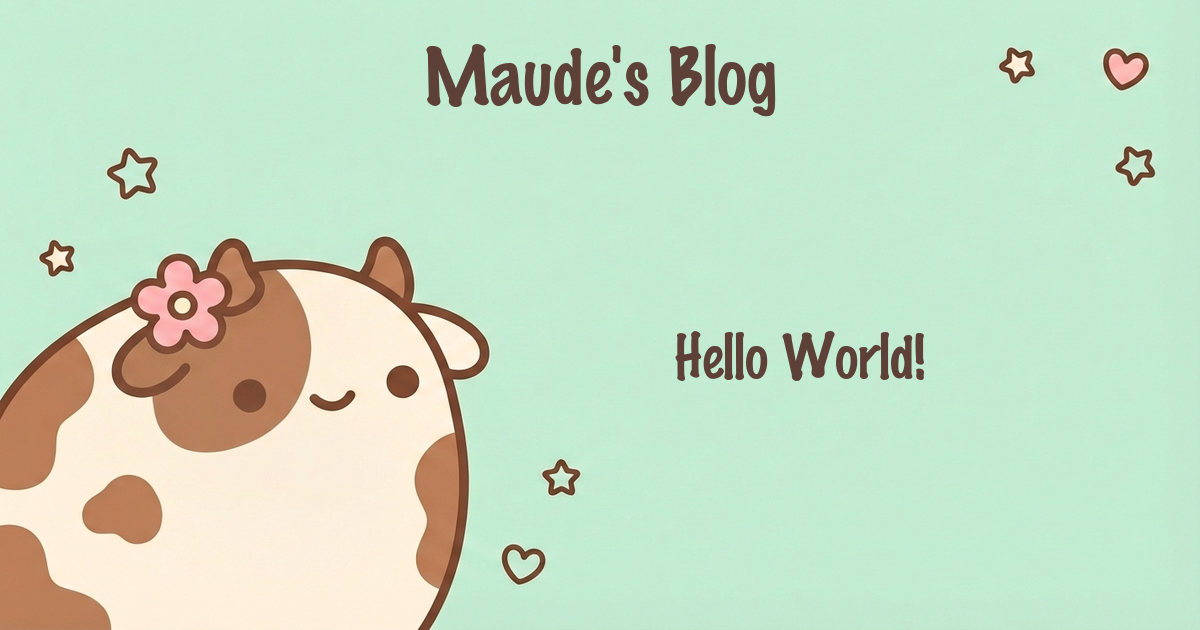
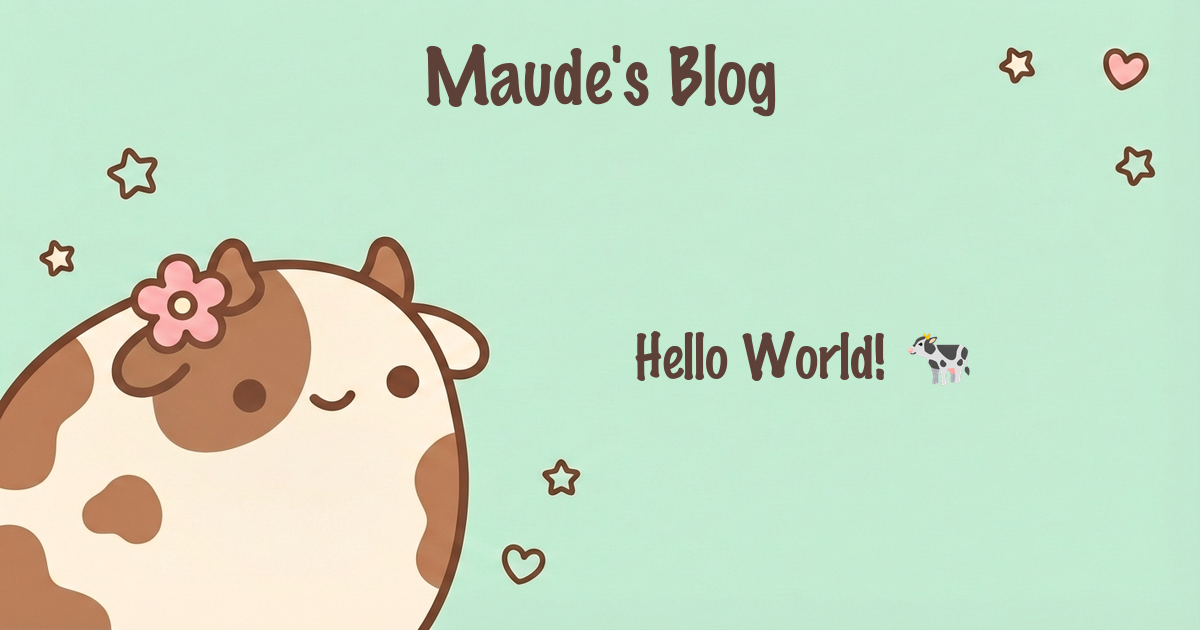
feat: add emoji support to OG images using Noto Color Emoji
- Renders emojis at native 109px size then scales to match text
- Falls back gracefully if font not installed

Changed region(s): [[0.5242, 0.5127, 0.8325, 0.6032]]

diff --git a/scripts/generate-og-image.py b/scripts/generate-og-image.py
@@ -23,6 +23,8 @@ BASE_IMAGE = os.path.join(REPO_DIR, "public", "og-template.png")
 OG_WIDTH, OG_HEIGHT = 1200, 630
 BROWN = (93, 64, 55)  # Dark brown matching cow outlines
 FONT_PATH = "/System/Library/Fonts/Supplemental/MarkerFelt.ttc"
+EMOJI_FONT_PATH = os.path.expanduser("~/Library/Fonts/NotoColorEmoji.ttf")
+EMOJI_FONT_SIZE = 109  # Noto Color Emoji only supports this size
 
 # Text area for post title (right side, after the cow)
 TEXT_AREA_START_X = 500
@@ -30,58 +32,136 @@ TEXT_AREA_END_X = 1100  # More padding from right edge
 TEXT_AREA_WIDTH = TEXT_AREA_END_X - TEXT_AREA_START_X
 MAX_TITLE_LINES = 4
 
+# Emoji detection pattern
+EMOJI_PATTERN = re.compile(
+    "("
+    "["
+    "\U0001F600-\U0001F64F"  # emoticons
+    "\U0001F300-\U0001F5FF"  # symbols & pictographs
+    "\U0001F680-\U0001F6FF"  # transport & map symbols
+    "\U0001F700-\U0001F77F"  # alchemical symbols
+    "\U0001F780-\U0001F7FF"  # geometric shapes extended
+    "\U0001F800-\U0001F8FF"  # supplemental arrows-c
+    "\U0001F900-\U0001F9FF"  # supplemental symbols & pictographs
+    "\U0001FA00-\U0001FA6F"  # chess symbols
+    "\U0001FA70-\U0001FAFF"  # symbols & pictographs extended-a
+    "\U00002702-\U000027B0"  # dingbats
+    "\U000024C2-\U0001F251"  # enclosed characters
+    "]+"
+    ")"
+)
 
-def strip_emojis(text: str) -> str:
-    """
-    Remove emojis from text.
+
+def split_text_and_emojis(text: str) -> list[tuple[str, bool]]:
+    """Split text into segments of (text, is_emoji) tuples."""
+    segments = []
+    last_end = 0
     
-    Note: MarkerFelt and most fonts don't support emoji glyphs.
-    Apple Color Emoji is bitmap-only with fixed sizes, making it
-    incompatible with PIL's arbitrary sizing. Stripping is the
-    cleanest solution for now.
-    """
-    emoji_pattern = re.compile(
-        "["
-        "\U0001F600-\U0001F64F"  # emoticons
-        "\U0001F300-\U0001F5FF"  # symbols & pictographs
-        "\U0001F680-\U0001F6FF"  # transport & map symbols
-        "\U0001F700-\U0001F77F"  # alchemical symbols
-        "\U0001F780-\U0001F7FF"  # geometric shapes extended
-        "\U0001F800-\U0001F8FF"  # supplemental arrows-c
-        "\U0001F900-\U0001F9FF"  # supplemental symbols & pictographs
-        "\U0001FA00-\U0001FA6F"  # chess symbols
-        "\U0001FA70-\U0001FAFF"  # symbols & pictographs extended-a
-        "\U00002702-\U000027B0"  # dingbats
-        "\U000024C2-\U0001F251"  # enclosed characters
-        "]+",
-        flags=re.UNICODE,
-    )
-    # Strip emojis and clean up extra whitespace
-    result = emoji_pattern.sub("", text)
-    result = re.sub(r'\s+', ' ', result).strip()
-    return result
+    for match in EMOJI_PATTERN.finditer(text):
+        # Add text before emoji
+        if match.start() > last_end:
+            segments.append((text[last_end:match.start()], False))
+        # Add emoji
+        segments.append((match.group(), True))
+        last_end = match.end()
+    
+    # Add remaining text
+    if last_end < len(text):
+        segments.append((text[last_end:], False))
+    
+    return segments if segments else [(text, False)]
+
+
+def render_emoji(emoji: str, emoji_font: ImageFont.FreeTypeFont, target_size: int) -> Image.Image:
+    """Render an emoji and scale it to the target size."""
+    # Get the bounding box at native size
+    temp_img = Image.new('RGBA', (200, 200), (0, 0, 0, 0))
+    temp_draw = ImageDraw.Draw(temp_img)
+    bbox = temp_draw.textbbox((0, 0), emoji, font=emoji_font)
+    
+    # Create image just big enough for the emoji
+    width = bbox[2] - bbox[0] + 20
+    height = bbox[3] - bbox[1] + 20
+    emoji_img = Image.new('RGBA', (width, height), (0, 0, 0, 0))
+    emoji_draw = ImageDraw.Draw(emoji_img)
+    
+    # Draw emoji
+    emoji_draw.text((-bbox[0] + 10, -bbox[1] + 10), emoji, font=emoji_font, embedded_color=True)
+    
+    # Scale to target size
+    scale = target_size / EMOJI_FONT_SIZE
+    new_width = int(width * scale)
+    new_height = int(height * scale)
+    emoji_img = emoji_img.resize((new_width, new_height), Image.LANCZOS)
+    
+    return emoji_img
+
+
+def get_segment_width(segment: str, is_emoji: bool, text_font: ImageFont.FreeTypeFont, target_size: int, draw: ImageDraw.Draw) -> int:
+    """Get width of a text segment."""
+    if is_emoji:
+        # Estimate emoji width based on scaling
+        scale = target_size / EMOJI_FONT_SIZE
+        return int(EMOJI_FONT_SIZE * scale * 1.2)  # Approximate width
+    else:
+        bbox = draw.textbbox((0, 0), segment, font=text_font)
+        return bbox[2] - bbox[0]
+
+
+def get_text_width_with_emojis(text: str, text_font: ImageFont.FreeTypeFont, target_size: int, draw: ImageDraw.Draw) -> int:
+    """Calculate total width of text including emojis."""
+    segments = split_text_and_emojis(text)
+    return sum(get_segment_width(seg, is_emoji, text_font, target_size, draw) for seg, is_emoji in segments)
+
+
+def draw_text_with_emojis(
+    img: Image.Image,
+    draw: ImageDraw.Draw,
+    pos: tuple[int, int],
+    text: str,
+    text_font: ImageFont.FreeTypeFont,
+    emoji_font: ImageFont.FreeTypeFont | None,
+    target_size: int,
+    fill: tuple[int, int, int],
+) -> None:
+    """Draw text with emojis using appropriate fonts."""
+    segments = split_text_and_emojis(text)
+    x, y = pos
+    
+    for segment, is_emoji in segments:
+        if is_emoji and emoji_font:
+            # Render emoji as image and paste
+            emoji_img = render_emoji(segment, emoji_font, target_size)
+            # Center vertically with text
+            emoji_y = y + (target_size - emoji_img.height) // 2
+            img.paste(emoji_img, (int(x), int(emoji_y)), emoji_img)
+            x += emoji_img.width
+        else:
+            draw.text((x, y), segment, font=text_font, fill=fill)
+            bbox = draw.textbbox((0, 0), segment, font=text_font)
+            x += bbox[2] - bbox[0]
 
 
 def get_font_size_for_title(title: str, draw: ImageDraw.Draw) -> int:
     """Dynamically choose font size based on title length."""
     for size in [56, 48, 42, 36, 32, 28]:
-        font = ImageFont.truetype(FONT_PATH, size)
-        lines = wrap_text(title, font, TEXT_AREA_WIDTH, draw)
+        text_font = ImageFont.truetype(FONT_PATH, size)
+        lines = wrap_text_with_emojis(title, text_font, size, TEXT_AREA_WIDTH, draw)
         if len(lines) <= MAX_TITLE_LINES:
             return size
     return 24  # Minimum size
 
 
-def wrap_text(text: str, font: ImageFont.FreeTypeFont, max_width: int, draw: ImageDraw.Draw) -> list[str]:
-    """Wrap text to fit within max_width."""
+def wrap_text_with_emojis(text: str, text_font: ImageFont.FreeTypeFont, target_size: int, max_width: int, draw: ImageDraw.Draw) -> list[str]:
+    """Wrap text to fit within max_width, accounting for emojis."""
     words = text.split()
     lines = []
     current_line = []
     
     for word in words:
         test_line = ' '.join(current_line + [word])
-        bbox = draw.textbbox((0, 0), test_line, font=font)
-        if bbox[2] - bbox[0] <= max_width:
+        width = get_text_width_with_emojis(test_line, text_font, target_size, draw)
+        if width <= max_width:
             current_line.append(word)
         else:
             if current_line:
@@ -100,9 +180,6 @@ def generate_blog_og_image(
 ) -> str:
     """Generate an OG image for a blog post with title and branding."""
     
-    # Strip emojis since our font doesn't support them
-    title = strip_emojis(title)
-    
     # Load base template
     if os.path.exists(BASE_IMAGE):
         img = Image.open(BASE_IMAGE).convert('RGBA')
@@ -114,6 +191,14 @@ def generate_blog_og_image(
         img = img.resize((OG_WIDTH, OG_HEIGHT), Image.LANCZOS)
     
     draw = ImageDraw.Draw(img)
+    
+    # Load emoji font if available
+    emoji_font = None
+    if os.path.exists(EMOJI_FONT_PATH):
+        try:
+            emoji_font = ImageFont.truetype(EMOJI_FONT_PATH, EMOJI_FONT_SIZE)
+        except Exception as e:
+            print(f"Warning: Could not load emoji font: {e}")
     
     # Fonts
     header_font = ImageFont.truetype(FONT_PATH, 72)
@@ -132,7 +217,7 @@ def generate_blog_og_image(
     draw.text((header_x, header_y), header, font=header_font, fill=BROWN)
     
     # Wrap title text
-    title_lines = wrap_text(title, title_font, TEXT_AREA_WIDTH, draw)
+    title_lines = wrap_text_with_emojis(title, title_font, title_size, TEXT_AREA_WIDTH, draw)
     
     # Calculate title height
     line_height = int(title_size * 1.15)
@@ -149,10 +234,9 @@ def generate_blog_og_image(
     # Draw title lines (right side only)
     current_y = title_start_y
     for line in title_lines:
-        bbox = draw.textbbox((0, 0), line, font=title_font)
-        line_width = bbox[2] - bbox[0]
+        line_width = get_text_width_with_emojis(line, title_font, title_size, draw)
         x = TEXT_AREA_START_X + (TEXT_AREA_WIDTH - line_width) // 2
-        draw.text((x, current_y), line, font=title_font, fill=BROWN)
+        draw_text_with_emojis(img, draw, (x, current_y), line, title_font, emoji_font, title_size, BROWN)
         current_y += line_height
     
     # Ensure output directory exists
